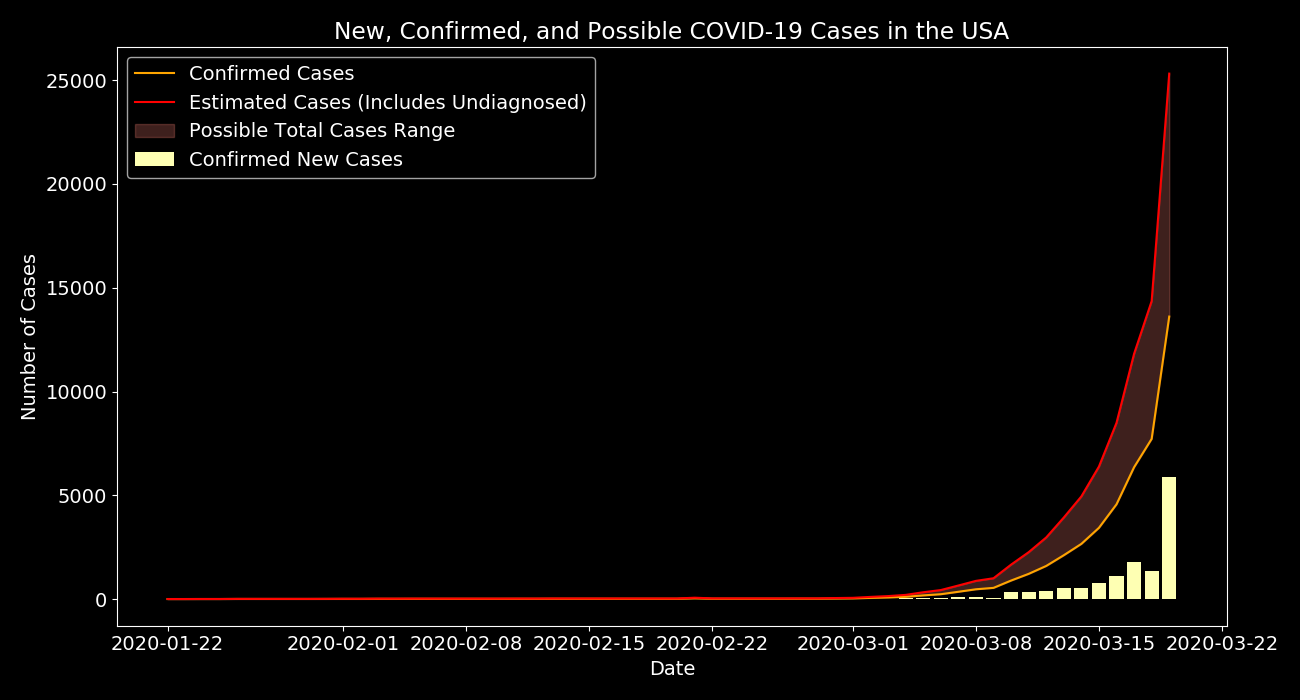
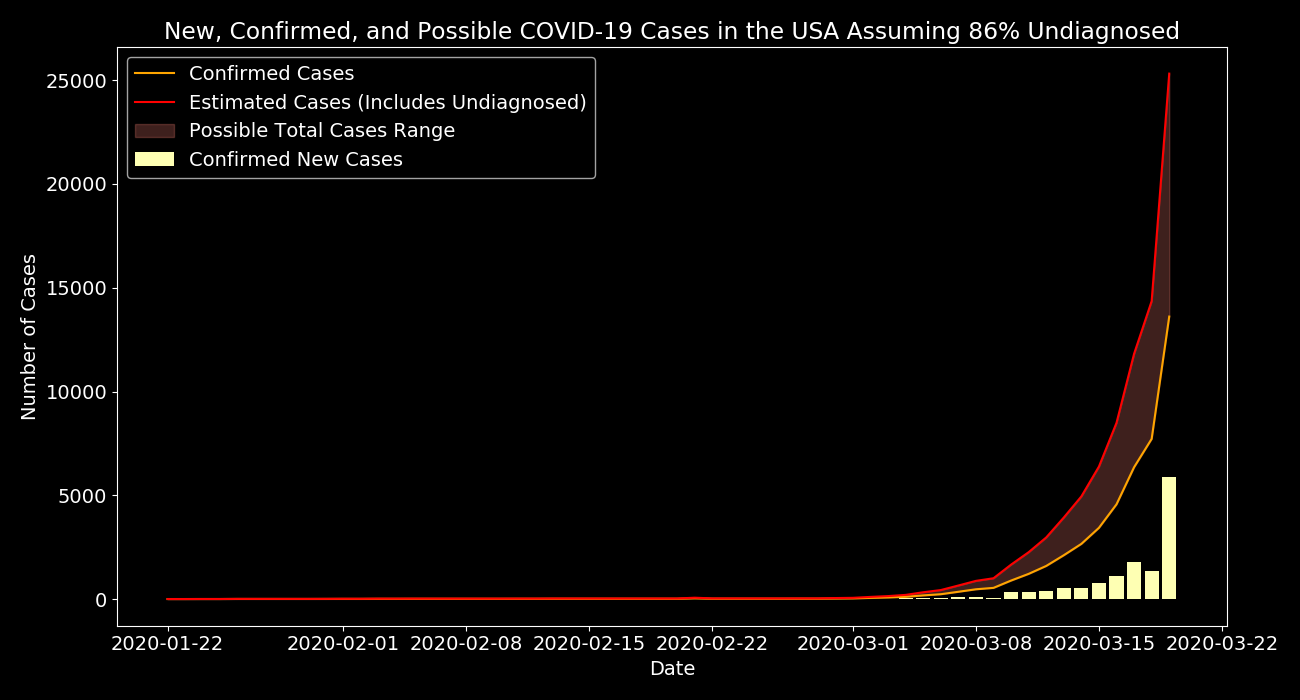
Update figures (from script)

Changed region(s): [[0.1231, 0.03, 0.9231, 0.06]]

diff --git a/source/new_and_total_plots.py b/source/new_and_total_plots.py
@@ -81,7 +81,7 @@ ax1.legend(
     ('Confirmed Cases', 'Estimated Cases (Includes Undiagnosed)', 'Possible Total Cases Range', 'Confirmed New Cases'),
     loc='upper left'
 )
-plt.title('New, Confirmed, and Possible COVID-19 Cases in the USA')
+plt.title('New, Confirmed, and Possible COVID-19 Cases in the USA Assuming 86% Undiagnosed')
 ax1.set_xlabel('Date')
 ax1.set_ylabel('Number of Cases')
 fig1.tight_layout()
@@ -123,7 +123,10 @@ ax1.legend(
     ('Confirmed Cases', 'Estimated Cases (Includes Undiagnosed)', 'Possible Total Cases Range', 'Confirmed New Cases'),
     loc='upper left'
 )
-plt.title('New, Confirmed, and Possible COVID-19 Cases in the USA')
+plt.title(
+    f'COVID-19 Cases in the USA Assuming 86% Undiagnosed, ' +
+    f'Decreasing 1% Starting {str(diminish_date)}'
+)
 ax1.set_xlabel('Date')
 ax1.set_ylabel('Number of Cases')
 fig1.tight_layout()
